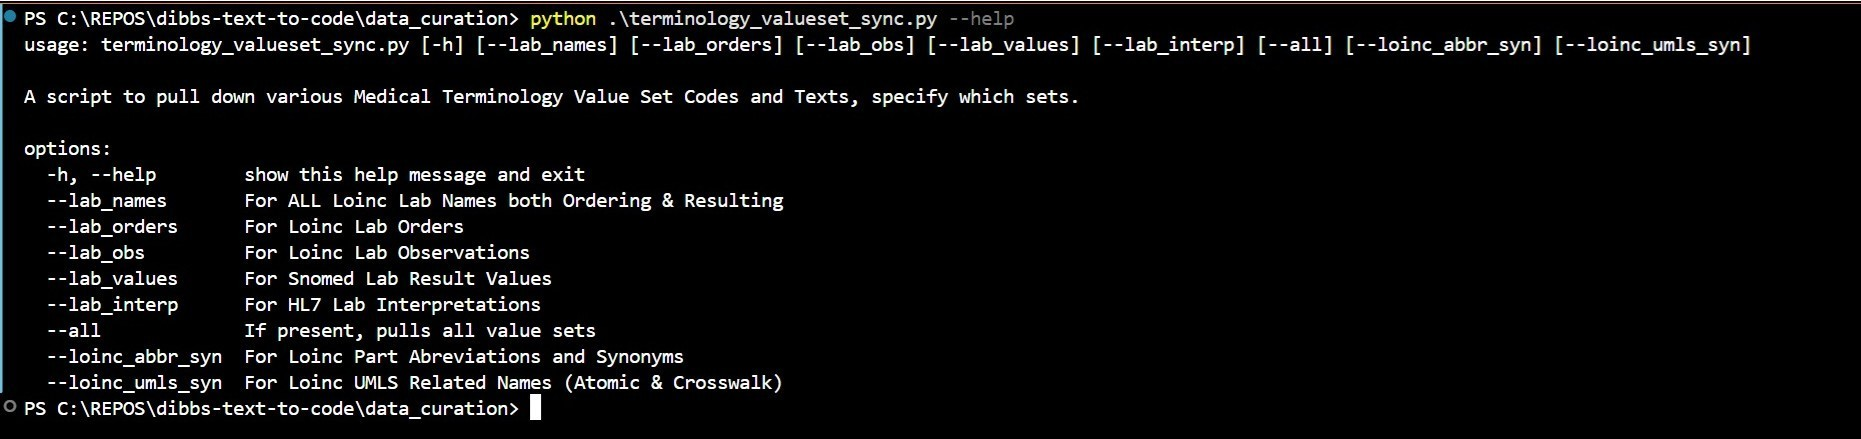
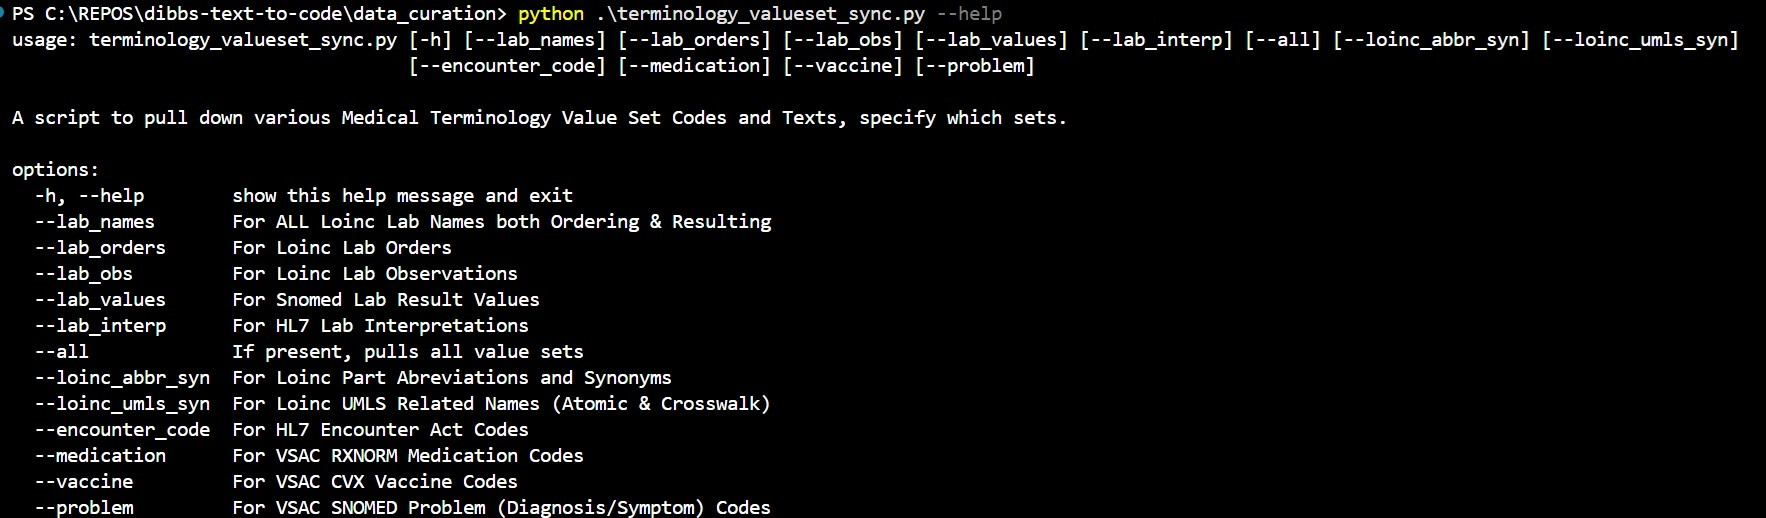
Update documentation

Changed region(s): [[0.0, 0.2961, 0.436, 1.0], [0.0, 0.0, 1.0, 0.1481], [0.0, 0.2073, 0.6229, 0.2665]]

diff --git a/data_curation/README.md b/data_curation/README.md
@@ -11,6 +11,7 @@
    - [LOINC UMLS Related Names](#loinc-umls-related-names)
    - [SNOMED](#snomed)
    - [HL7](#hl7)
+   - [VSAC](#vsac-value-set-authority-center)
 - [Instructions](#instructions)
    - [Generating SNOINC Extracts](#generating-snoinc-extracts)
      - [Dependencies](#dependencies)
@@ -246,10 +247,51 @@ D|Significant change down
 - code: The unique machine-readable identifier for a concept.
 - text: Human-readable text describing the concept.
 
+```csv
+code|text|description
+AMB|ambulatory|A comprehensive term for health care provided in a healthcare facility (e.g. a practitioneraTMs office, clinic setting, or hospital) on a nonresident basis. The term ambulatory usually implies that the patient has come to the location and is not assigned to a bed. Sometimes referred to as an outpatient encounter.
+EMER|emergency|A patient encounter that takes place at a dedicated healthcare service delivery location where the patient receives immediate evaluation and treatment, provided until the patient can be discharged or responsibility for the patient's care is transferred elsewhere (for example, the patient could be admitted as an inpatient or transferred to another facility.)
+```
+
+- code: The unique machine-readable identifier for a concept.
+- text: Human-readable text describing the concept.
+- description: A more in depth text giving detail about the concept.  **NOTE: Not all extracts will have this field available.**
+
 #### Extracts:
 
 - **Lab Interpretations** - In an HL7 message, the value from the ObservationInterpretation code system and/or a value set derived from it is used to provide additional context to the reported lab result. For instance, alongside a quantitative lab value, an interpretation code might indicate whether the result is "High" or "Low". This helps clinicians understand the significance of a result without having to interpret raw data themselves.
    - File Name: `../data/snoinc_extracts/hl7_lab_interp_<YYYYMMDD>.csv`
+
+- **Encounter Act Codes** - This ValueSet, defined by Health Level Seven (HL7), provides the vocabulary for classifying healthcare encounters, which are defined as interactions between a patient and healthcare providers for the purpose of receiving healthcare services. The codes qualify and add detail to the general `ActEncounterClass`.
+   - File Name: `../data/snoinc_extracts/hl7_encounter_code_<YYYYMMDD>.csv`
+
+---
+
+### VSAC (Value Set Authority Center)
+
+These data files are from various VSAC value sets, which are standardized lists of codes and terms used to define clinical concepts for healthcare initiatives, managed by the National Library of Medicine's Value Set Authority Center (VSAC). They provide standardized terminology for health data, supporting interoperability and quality measurement by ensuring consistency in how data is collected and exchanged between systems, especially through tools like electronic clinical quality measures (eCQMs).  These value sets can leverage other medical ontologies, like the UMLS, such as `RXNORM`, `SNOMED`, and `CVX`.
+
+#### Data Structure:
+
+```csv
+code|text
+01|diphtheria, tetanus toxoids and pertussis vaccine
+02|trivalent poliovirus vaccine, live, oral
+03|measles, mumps and rubella virus vaccine
+```
+- code: The unique machine-readable identifier for a concept.
+- text: Human-readable text describing the concept.
+
+#### Extracts:
+
+- **CVX Vaccines** - The CVX (Vaccines Administered) value set is a standard code set developed and maintained by the Centers for Disease Control and Prevention (CDC) for the electronic exchange of vaccine information. The CVX code is a numeric string that identifies a specific type of vaccine product administered to a patient. 
+   - File Name: `../data/snoinc_extracts/vsac_cvx_vaccines_<YYYYMMDD>.csv`
+
+- **RXNORM Medications Administered** - An RXNORM Medications Administered valueset is a standardized list of codes from the RxNorm vocabulary that specifies medications that have been given to a patient. It is most often used in electronic health records (EHRs) and clinical quality measures (eCQMs) to ensure different healthcare IT systems can accurately and unambiguously communicate about medications that were actually administered.
+   - File Name: `../data/snoinc_extracts/vsac_rxnorm_medications_<YYYYMMDD>.csv`
+
+- **SNOMED Problems** - A SNOMED Problems (Diagnosis/Symptoms) value set is a curated, standardized list of specific medical concepts used to describe a patient's health problems. It is a subset drawn from the much larger Systematized Nomenclature of Medicine—Clinical Terms (SNOMED CT), which is the most comprehensive clinical health terminology in the world.
+   - File Name: `../data/snoinc_extracts/vsac_snomed_problems_<YYYYMMDD>.csv`
 
 ## Instructions
 
@@ -356,6 +398,37 @@ There are a handful of CLI commands you can use to generate the extract files.  
    - A file named loinc_umls_related_names_<current date (YYYYMMDD)>.json will be created in the [data folder](../data/)
 
    :warning: **NOTE: This will take approximately 36 hours to complete, but if you stop it or you receive an error, you can restart this process and it will pick up where it left off** :warning:
+
+---
+
+- [**Encounter Act (Type) Codes**](#hl7)
+   - In a terminal at the base of the dibbs-text-to-code repo, navigate to the data_curation folder `cd data_curation`
+   - Enter `python .\terminology_valueset_sync.py --encounter_code`
+   - A file named hl7_encounter_code_<current date (YYYYMMDD)>.csv will be created in the [data folder](../data/)
+   
+---
+
+- [**Vaccines**](#vsac-value-set-authority-center)
+   - In a terminal at the base of the dibbs-text-to-code repo, navigate to the data_curation folder `cd data_curation`
+   - Make sure your UMLS API Key is [set as an environment variable](#dependencies)
+   - Enter `python .\terminology_valueset_sync.py --vaccine`
+   - A file named vsac_cvx_vaccines_<current date (YYYYMMDD)>.csv will be created in the [data folder](../data/)
+
+---
+
+- [**Medications**](#vsac-value-set-authority-center)
+   - In a terminal at the base of the dibbs-text-to-code repo, navigate to the data_curation folder `cd data_curation`
+   - Make sure your UMLS API Key is [set as an environment variable](#dependencies)
+   - Enter `python .\terminology_valueset_sync.py --medication`
+   - A file named vsac_rxnorm_medications_<current date (YYYYMMDD)>.csv will be created in the [data folder](../data/)
+
+---
+
+- [**Problems (Diagnosis/Symptoms)**](#vsac-value-set-authority-center)
+   - In a terminal at the base of the dibbs-text-to-code repo, navigate to the data_curation folder `cd data_curation`
+   - Make sure your UMLS API Key is [set as an environment variable](#dependencies)
+   - Enter `python .\terminology_valueset_sync.py --problem`
+   - A file named vsac_snomed_problems_<current date (YYYYMMDD)>.csv will be created in the [data folder](../data/)
 
 ---
 
